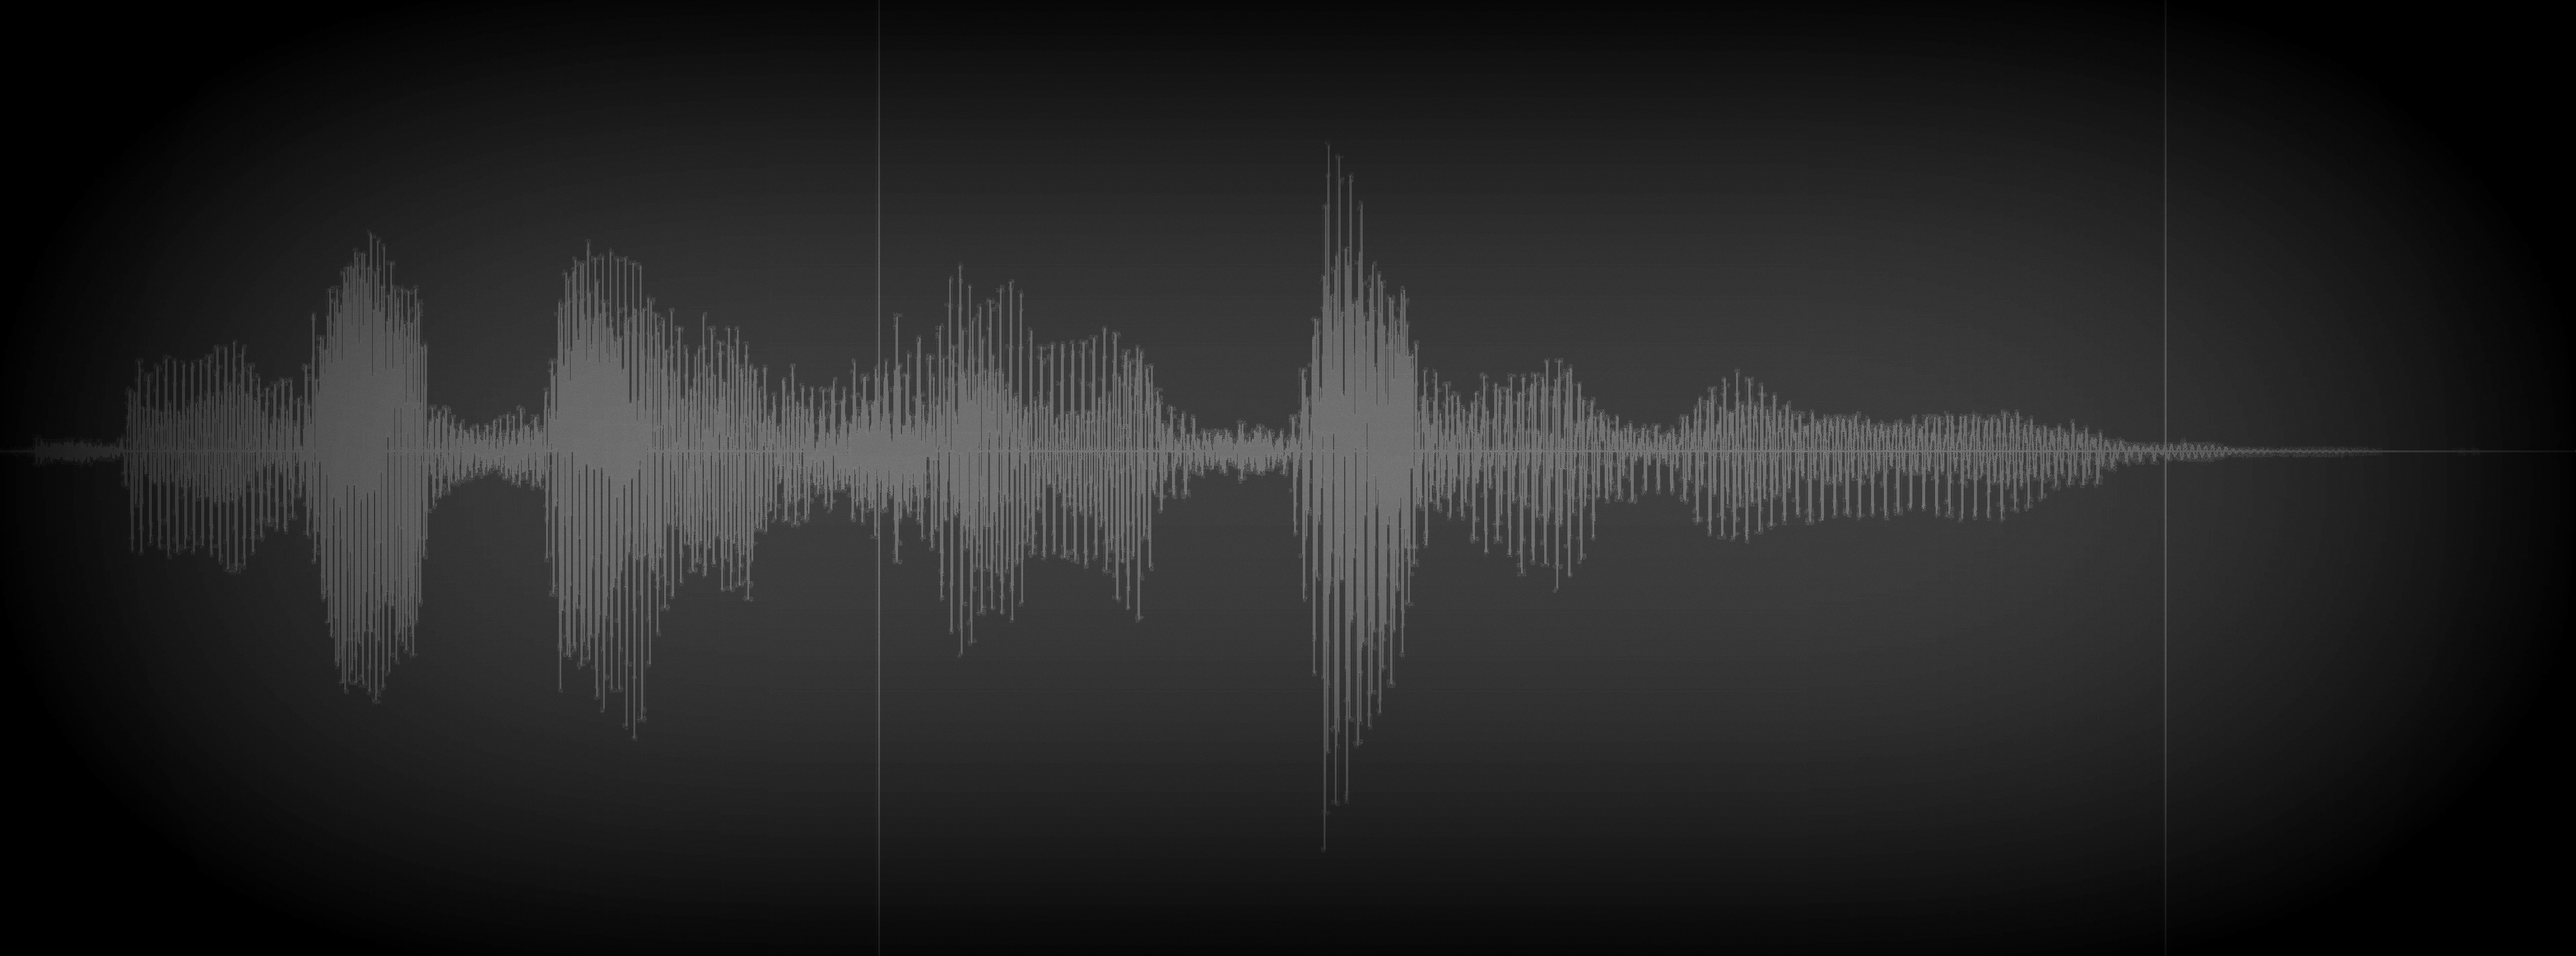
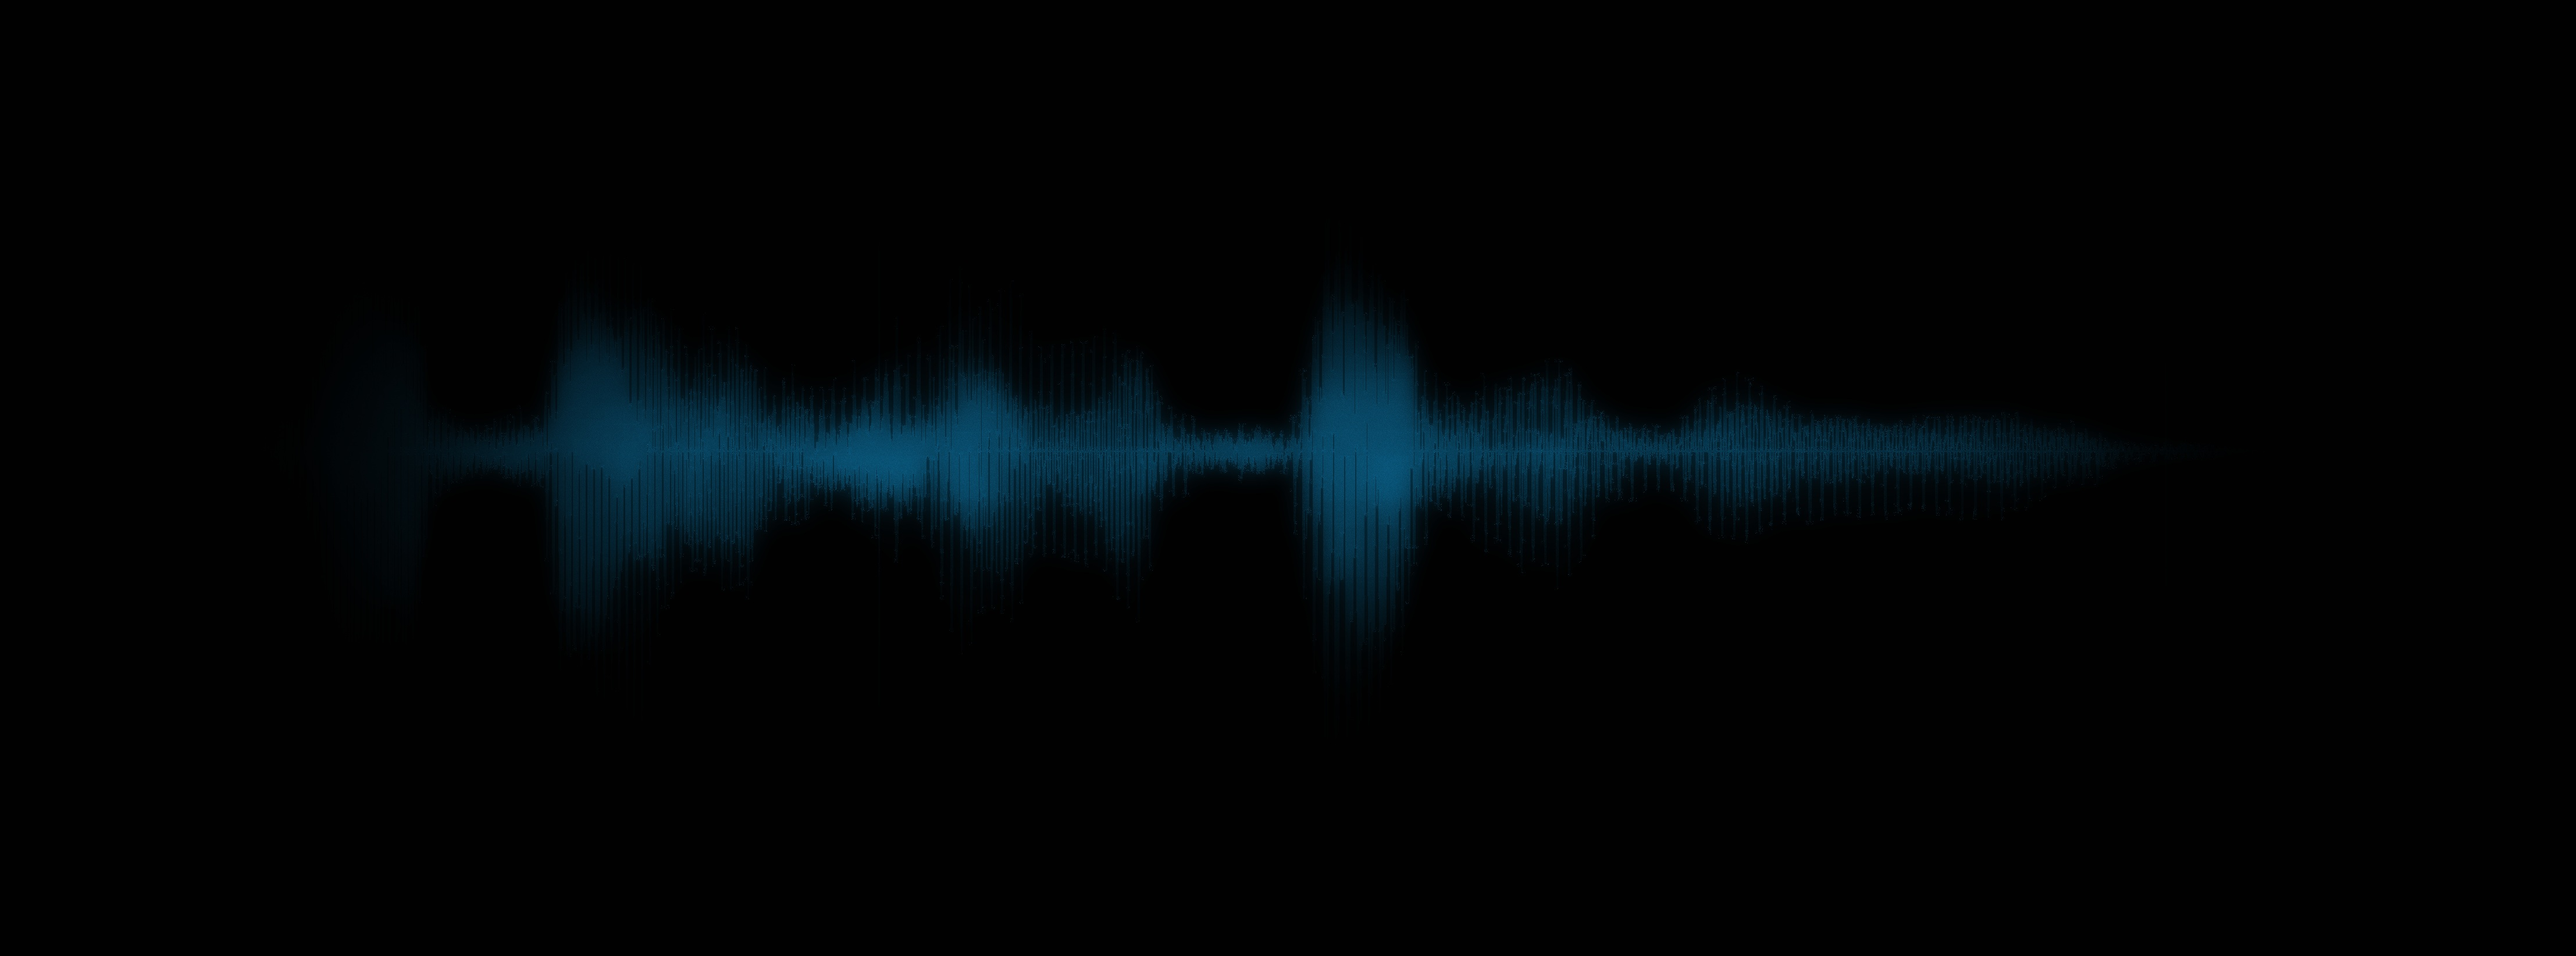
tons of edits plus new bkground

diff --git a/index.html b/index.html
@@ -52,7 +52,7 @@
       <div class="row banner">
          <div class="banner-text">
 			<h1 class="responsive-headline">I'm Adel Rahimi.</h1>
-            <h3>I'm a <span>Linguist</span> I break down <span>Morphemes</span>, analyze <span>Phonemes</span>, write <span>Scripts</span>, make <span>Corpora</span>, and <span>Synthesize</span> speech. 
+            <h3>I'm a <span>Linguist</span> I analyze <span>pitch</span> to study them, I watch <span>formants</span> to study phones, I write <span>scripts</span> to process speech, I make <span>corpora</span> to study language, and lastly I watch tons of<span> movies</span>!
             <hr />
             <ul class="social">
                <li><a href="https://twitter.com/adel123"><i class="fa fa-twitter"></i></a></li>
@@ -83,12 +83,12 @@
          </div>
 
          <div class="nine columns main-col">
-			<p><a href="#">Teaching Materials</a> | <a href="#">Certificates</a> | <a href="#">Designs</a> | <a href="http://kurdishlanguagerepository.github.io">Kurdish Language Repository</a><br>(links to other pages)</p>
+			<p><a href="#">Teaching Materials</a> | <a href="#">Certificates</a> | <a href="#">Designs</a> | <a href="#">Series Guide</a> | <a href="http://kurdishlanguagerepository.github.io">Kurdish Language Repository</a><br>(links to other pages)</p>
             <br><h2>News</h2>
 			<li>New Noise Reduction video tutorials coming soon.</li>
-			<li>You can see my Recording Tips for Linguists <a href="/~linguists">here</a>.</li>
-			<li>slides for demo on Content based language learning II (Fall, 2016) available <a href="http://www.slideshare.net/rahimiadel/content-based-language-learning-ii">here</a>.</li>
-			<li>slides for demo on Content based language learning I (Winter, 2015) available <a href="http://www.slideshare.net/rahimiadel/content-based-language-learning-i">here</a>.</li>
+			<li>You can read my Recording Tips for Linguists <a href="/~linguists">here</a>.</li>
+			<li>slides for demo on Content based language learning II (Fall, 2016) is available <a href="http://www.slideshare.net/rahimiadel/content-based-language-learning-ii">here</a>.</li>
+			<li>slides for demo on Content based language learning I (Winter, 2015) is available <a href="http://www.slideshare.net/rahimiadel/content-based-language-learning-i">here</a>.</li>
 			<li>slides for my speech on Suprasegmentals at the IKIU is available <a href="http://www.slideshare.net/rahimiadel/suprasegmentals-24645189">here</a>.</li>
 			<br><h2>About Me</h2>
 
